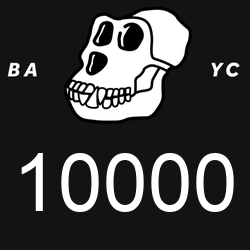
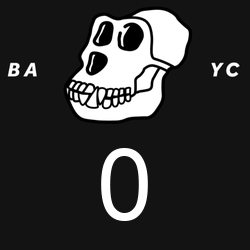
fixed images

Changed region(s): [[0.224, 0.588, 0.756, 0.896], [0.784, 0.588, 0.952, 0.868], [0.084, 0.616, 0.196, 0.868]]

diff --git a/generate-images.py b/generate-images.py
@@ -8,7 +8,7 @@ bakc_bg = (0, 0, 0)
 
 font_color = (255, 255, 255)
 
-for i in range(1, 10001):
+for i in range(0, 1):
     font_size = 0
     if i < 1000:
         font_size = 100
@@ -32,4 +32,4 @@ for i in range(1, 10001):
     _, _, w, h = draw.textbbox((0, 0), message, font=font)
     draw.text(((W - w) / 2, (H - h) / 2 + 50), message, font=font, fill=font_color)
 
-    img.save(f'./bakc/{i}.png')
+    img.save(f'./images-bakc/{i}.png')
